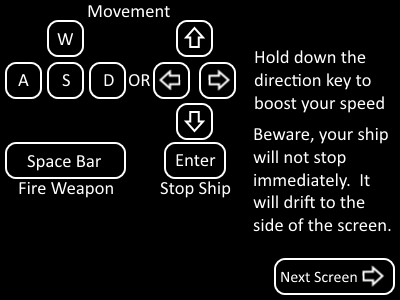
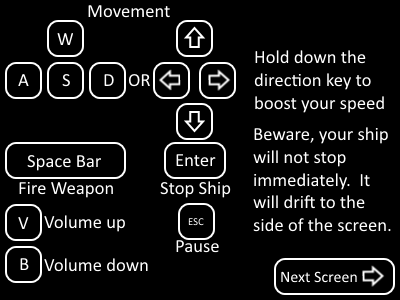
Added keys to tutorial, and pause function.

diff --git a/scripts/Main.js b/scripts/Main.js
@@ -33,6 +33,7 @@ function Main(saferenderer, gamevolume) {
     this.wave = 1;
     this.score = 0;
     this.secondTickInterval = null;
+    this.paused=false;
     this.firstinit = true;
     this.gameworld = null;
     this.everySecond = null;
@@ -50,8 +51,9 @@ Main.prototype = Object.create(Object.prototype);
 Main.prototype.update = function () {
     "use strict";
     var now, dt, secondcheck;
-    if (document.hidden) {
+    if (document.hidden || this.paused) {
         this.lasttimestamp = null;
+        requestAnimFrame(this.update.bind(this));
         return;
     }
     now = timeStamp();
@@ -175,6 +177,10 @@ Main.prototype.checkKeyUp = function (e) {
         if (key == 66) { // b = volume down;
             Howler.volume(Howler.volume() - .1);
         }
+    }
+    if (key === 27 && this.gameworld instanceof GameWorld) {
+        this.paused = this.paused !== true;
+        return;
     }
     if (key === 13 && (this.gameworld instanceof Intermission || this.gameworld instanceof GameOver)) {
         this.newWave();
